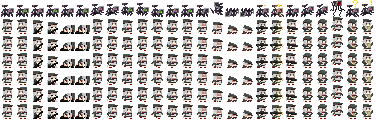
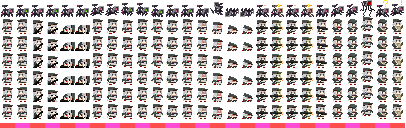
영웅 스프라이트 2칸 추가, 인트루더 추가

diff --git a/core/src/main/java/com/gfpixel/gfpixeldungeon/sprites/IntruderSprite.java b/core/src/main/java/com/gfpixel/gfpixeldungeon/sprites/IntruderSprite.java
@@ -1,0 +1,51 @@
+/*
+ * Pixel Dungeon
+ * Copyright (C) 2012-2015 Oleg Dolya
+ *
+ * Shattered Pixel Dungeon
+ * Copyright (C) 2014-2018 Evan Debenham
+ *
+ * This program is free software: you can redistribute it and/or modify
+ * it under the terms of the GNU General Public License as published by
+ * the Free Software Foundation, either version 3 of the License, or
+ * (at your option) any later version.
+ *
+ * This program is distributed in the hope that it will be useful,
+ * but WITHOUT ANY WARRANTY; without even the implied warranty of
+ * MERCHANTABILITY or FITNESS FOR A PARTICULAR PURPOSE.  See the
+ * GNU General Public License for more details.
+ *
+ * You should have received a copy of the GNU General Public License
+ * along with this program.  If not, see <http://www.gnu.org/licenses/>
+ */
+
+package com.gfpixel.gfpixeldungeon.sprites;
+
+import com.gfpixel.gfpixeldungeon.Assets;
+import com.watabou.noosa.TextureFilm;
+import com.watabou.utils.Random;
+
+public class IntruderSprite extends MobSprite {
+
+    public IntruderSprite() {
+        super();
+
+        texture( Assets.INTRUDER );
+
+        TextureFilm frames = new TextureFilm( texture, 17, 17 );
+
+        idle = new Animation( 6, true );
+        idle.frames( frames, 0 );
+
+        run = new Animation( 15, true );
+        run.frames( frames, 1, 2, 3, 4, 5 );
+
+        attack = new Animation( 30, false );
+        attack.frames( frames, 6, 8, 7, 8, 6, 8, 7, 8, 6, 8 );
+
+        die = new Animation( 15, false );
+        die.frames( frames, 1, 8, 9, 10, 10, 11 );
+
+        play( idle );
+    }
+}

diff --git a/core/src/main/java/com/gfpixel/gfpixeldungeon/sprites/HeroSprite.java b/core/src/main/java/com/gfpixel/gfpixeldungeon/sprites/HeroSprite.java
@@ -74,18 +74,18 @@ public class HeroSprite extends CharSprite {
 		die.frames( film, 12, 13, 14, 15 );
 		
 		attack = new Animation( 20, false );
-		attack.frames( film, 19, 18, 17, 18, 17, 19 );
+		attack.frames( film, 21, 18, 17, 20, 19, 21 );
 		
 		zap = attack.clone();
 		
 		operate = new Animation( 8, false );
-		operate.frames( film, 20, 21, 20, 21 );
+		operate.frames( film, 22, 23, 22, 23 );
 
 		fly = new Animation( 1, true );
-		fly.frames( film, 22 );
+		fly.frames( film, 24 );
 
 		read = new Animation( 20, false );
-		read.frames( film, 23, 24, 24, 24, 24, 24, 24, 24, 24, 23 );
+		read.frames( film, 25, 26, 26, 26, 26, 26, 26, 26, 26, 25 );
 		
 		if (ch.isAlive())
 			idle();

diff --git a/core/src/main/java/com/gfpixel/gfpixeldungeon/Assets.java b/core/src/main/java/com/gfpixel/gfpixeldungeon/Assets.java
@@ -117,6 +117,7 @@ public class Assets {
 	public static final String NEMEUM = "nemeum.png";
 	public static final String ELPHELT = "Elphelt.png";
 	public static final String TOW = "tow.png";
+	public static final String INTRUDER = "intruder.png";
 
 	public static final String ITEMS	        = "items.png";
 	public static final String TERRAIN_FEATURES	= "terrain_features.png";
